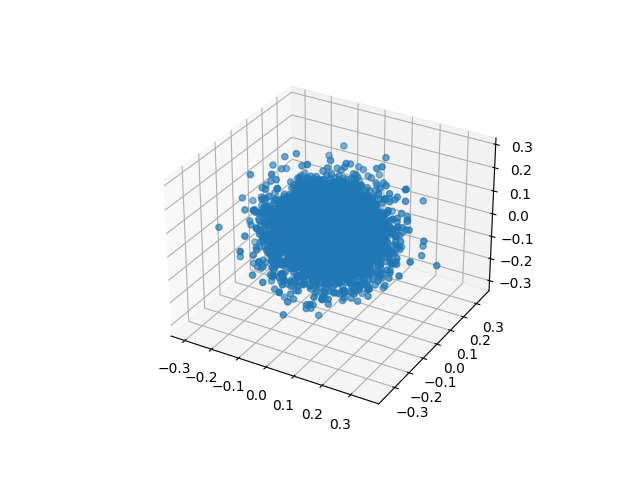
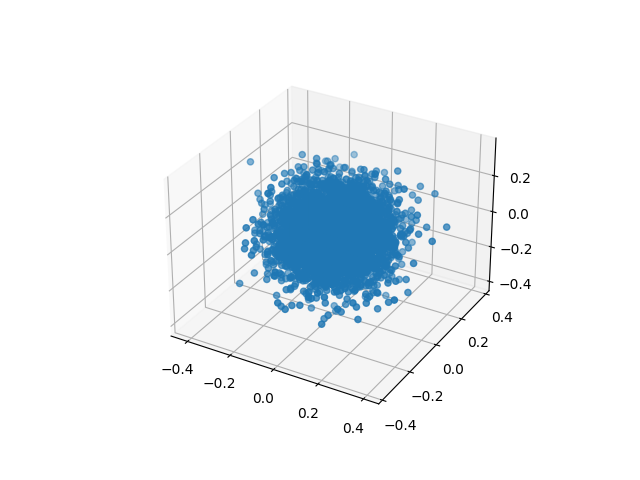
Updates

diff --git a/AI/GAN/gan.py b/AI/GAN/gan.py
@@ -1,6 +1,6 @@
 import numpy as np
-from keras.layers import Input, Dense, Reshape, Flatten, LeakyReLU, BatchNormalization
-from keras.layers.convolutional import Conv1D
+from keras.layers import Input, BatchNormalization, Activation, LeakyReLU
+from keras.layers.convolutional import Conv3D, Conv3DTranspose
 from keras.models import Sequential, Model
 from keras.optimizers import Adam
 import matplotlib.pyplot as plt
@@ -9,90 +9,125 @@ import random
 
 data = parse_dataset()
 
-num_points = 4096
-
-def generator():
-    model = Sequential()
-    model.add(Dense(256, input_dim=100))
-    model.add(LeakyReLU(alpha=0.2))
-    model.add(BatchNormalization(momentum=0.8))
-    model.add(Dense(512))
-    model.add(LeakyReLU(alpha=0.2))
-    model.add(BatchNormalization(momentum=0.8))
-    model.add(Dense(1024))
-    model.add(LeakyReLU(alpha=0.2))
-    model.add(BatchNormalization(momentum=0.8))
-    model.add(Dense(num_points * 3, activation='tanh'))
-    model.add(Reshape((num_points, 3)))
-    noise = Input(shape=(100,))
-    cloud = model(noise)
-    return Model(inputs=noise, outputs=cloud)
-
-def discriminator():
-    model = Sequential()
-    model.add(Conv1D(64, 4, strides=2, padding='same', input_shape=(num_points, 3)))
-    model.add(LeakyReLU(alpha=0.2))
-    model.add(Conv1D(128, 4, strides=2, padding='same'))
-    model.add(LeakyReLU(alpha=0.2))
-    model.add(Conv1D(256, 4, strides=2, padding='same'))
-    model.add(LeakyReLU(alpha=0.2))
-    model.add(Conv1D(512, 4, strides=2, padding='same'))
-    model.add(LeakyReLU(alpha=0.2))
-    model.add(Flatten())
-    model.add(Dense(1))
-    cloud = Input(shape=(num_points, 3))
-    validity = model(cloud)
-    return Model(inputs=cloud, outputs=validity)
-
-optimizer = Adam(lr=0.0002, beta_1=0.5)
-
-discriminator = discriminator()
-discriminator.compile(loss='mse', optimizer=optimizer, metrics=['accuracy'])
-
-generator = generator()
-
-z = Input(shape=(100,))
-cloud = generator(z)
-
-discriminator.trainable = False
-
-validity = discriminator(cloud)
-
-combined = Model(z, validity)
-combined.compile(loss='mse', optimizer=optimizer)
-
 epochs = 10000
 batch_size = 1
 save_interval = 1000
+latent_dim = 200
+im_dim = 64
+kernel_size = 4
+strides = 2
+batch_size = 1
 
-# Adversarial ground truths
-valid = np.ones((batch_size, 1))
-fake = np.zeros((batch_size, 1))
+def build_generator():
+    model = Sequential()
+    model.add(Conv3DTranspose(filters=512, kernel_size=kernel_size,
+        strides=(1, 1, 1), kernel_initializer='glorot_normal',
+        bias_initializer='zeros', padding='valid'))
+    model.add(BatchNormalization())
+    model.add(Activation('relu'))
+
+    model.add(Conv3DTranspose(filters=256, kernel_size=kernel_size,
+        strides=strides, kernel_initializer='glorot_normal',
+        bias_initializer='zeros', padding='same'))
+    model.add(BatchNormalization())
+    model.add(Activation('relu'))
+
+    model.add(Conv3DTranspose(filters=128, kernel_size=kernel_size,
+        strides=strides, kernel_initializer='glorot_normal',
+        bias_initializer='zeros', padding='same'))
+    model.add(BatchNormalization())
+    model.add(Activation('relu'))
+    
+    model.add(Conv3DTranspose(filters=64, kernel_size=kernel_size,
+        strides=strides, kernel_initializer='glorot_normal',
+        bias_initializer='zeros', padding='same'))
+    model.add(BatchNormalization())
+    model.add(Activation('relu'))
+
+    model.add(Conv3DTranspose(filters=1, kernel_size=kernel_size,
+        strides=strides, kernel_initializer='glorot_normal',
+        bias_initializer='zeros', padding='same'))
+    model.add(BatchNormalization())
+    model.add(Activation('sigmoid'))
+
+    noise = Input(shape=(1, 1, 1, latent_dim))
+    image = model(noise)
+
+    return Model(inputs=noise, outputs=image)
+
+def build_discriminator():
+    model = Sequential()
+    model.add(Conv3D(filters=64, kernel_size=kernel_size,
+        strides=strides, kernel_initializer='glorot_normal',
+        bias_initializer='zeros', padding='same'))
+    model.add(BatchNormalization())
+    model.add(LeakyReLU(alpha=0.2))
+
+    model.add(Conv3D(filters=128, kernel_size=kernel_size,
+        strides=strides, kernel_initializer='glorot_normal',
+        bias_initializer='zeros', padding='same'))
+    model.add(BatchNormalization())
+    model.add(LeakyReLU(alpha=0.2))
+
+    model.add(Conv3D(filters=256, kernel_size=kernel_size,
+        strides=strides, kernel_initializer='glorot_normal',
+        bias_initializer='zeros', padding='same'))
+    model.add(BatchNormalization())
+    model.add(LeakyReLU(alpha=0.2))
+
+    model.add(Conv3D(filters=512, kernel_size=kernel_size,
+        strides=strides, kernel_initializer='glorot_normal',
+        bias_initializer='zeros', padding='same'))
+    model.add(BatchNormalization())
+    model.add(LeakyReLU(alpha=0.2))
+
+    model.add(Conv3D(filters=1, kernel_size=kernel_size,
+        strides=(1, 1, 1), kernel_initializer='glorot_normal',
+        bias_initializer='zeros', padding='valid'))
+    model.add(BatchNormalization())
+    model.add(Activation('sigmoid'))
+
+    image = Input(shape=(im_dim, im_dim, im_dim, 1))
+    validity = model(image)
+
+    return Model(inputs=image, outputs=validity)
+
+dis_optim = Adam(lr=1e-5, beta_1=0.5)
+gen_optim = Adam(lr=0.0025, beta_1=0.5)
+
+discriminator = build_discriminator()
+
+discriminator.compile(loss='binary_crossentropy', optimizer=dis_optim)
+
+generator = build_generator()
+
+z = Input(shape=(1, 1, 1, latent_dim))
+img = generator(z)
+
+discriminator.trainable = False
+validity = discriminator(img)
+
+combined = Model(input=z, output=validity)
+combined.compile(loss='binary_crossentropy', optimizer=gen_optim)
 
 for epoch in range(epochs):
-    point_clouds = data[0][random.randint(0, len(data[0]) - 1)]
-    point_clouds = point_clouds.reshape(1,4096, 3)
+    real = data[0][0]
 
-    noise = np.random.normal(0, 1, (batch_size, 100))
-    gen_point_clouds = generator.predict(noise)
+    z = np.random.normal(0, 0.33, size=[batch_size, 1, 1, 1,latent_dim]).astype(np.float32)
+    fake = generator.predict(z)
 
-    d_loss_real = discriminator.train_on_batch(point_clouds, valid)
-    d_loss_fake = discriminator.train_on_batch(gen_point_clouds, fake)
-    d_loss = 0.5 * np.add(d_loss_real, d_loss_fake)
+    real = np.expand_dims(real, axis=4)
 
-    g_loss = combined.train_on_batch(noise, valid)
+    lab_real = np.reshape([1] *batch_size, (-1, 1, 1, 1, 1))
+    lab_fake = np.reshape([0] *batch_size, (-1, 1, 1, 1, 1))
 
-    if epoch % 100 == 0:
-        print(f"Epoch {epoch} [D loss: {d_loss[0]}, acc.: {100 * d_loss[1]:.2f}%] [G loss: {g_loss}]")
+    d_loss_real = discriminator.train_on_batch(real, lab_real)
+    d_loss_fake = discriminator.train_on_batch(fake, lab_fake)
 
-    if epoch % save_interval == 0:
-        noise = np.random.normal(0, 1, (1, 100))
-        gen_point_cloud = generator.predict(noise)
+    d_loss = 0.5*np.add(d_loss_real, d_loss_fake)
 
-        fig = plt.figure()
-        ax = fig.add_subplot(111, projection='3d')
-        ax.scatter(gen_point_cloud[0, :, 0], gen_point_cloud[0, :, 1], gen_point_cloud[0, :, 2])
-        plt.savefig(f"generations/generated_point_cloud_{epoch}.png")
-        plt.close(fig)
+    z = np.random.normal(0, 0.33, size=[batch_size, 1, 1, 1,latent_dim]).astype(np.float32)
 
-gen_point_cloud.save("model.h5")
+    g_loss = combined.train_on_batch(z, np.reshape([1] *batch_size, (-1, 1, 1, 1, 1))).astype(np.float64)
+
+generator.save("model.h5")

diff --git a/AI/GAN/dataset.py b/AI/GAN/dataset.py
@@ -17,9 +17,10 @@ def parse_dataset(num_points=4096):
     
         train_files = glob.glob(folder + "/train/*")
 
-        for f in train_files:
-            train_points.append(trimesh.load(f).sample(num_points))
+        #for f in train_files:
+            #train_points.append(trimesh.load(f).sample(num_points))
         
+        train_points.append(trimesh.load(train_files[0]).sample(num_points))
         objects.append(train_points)
 
     return objects
